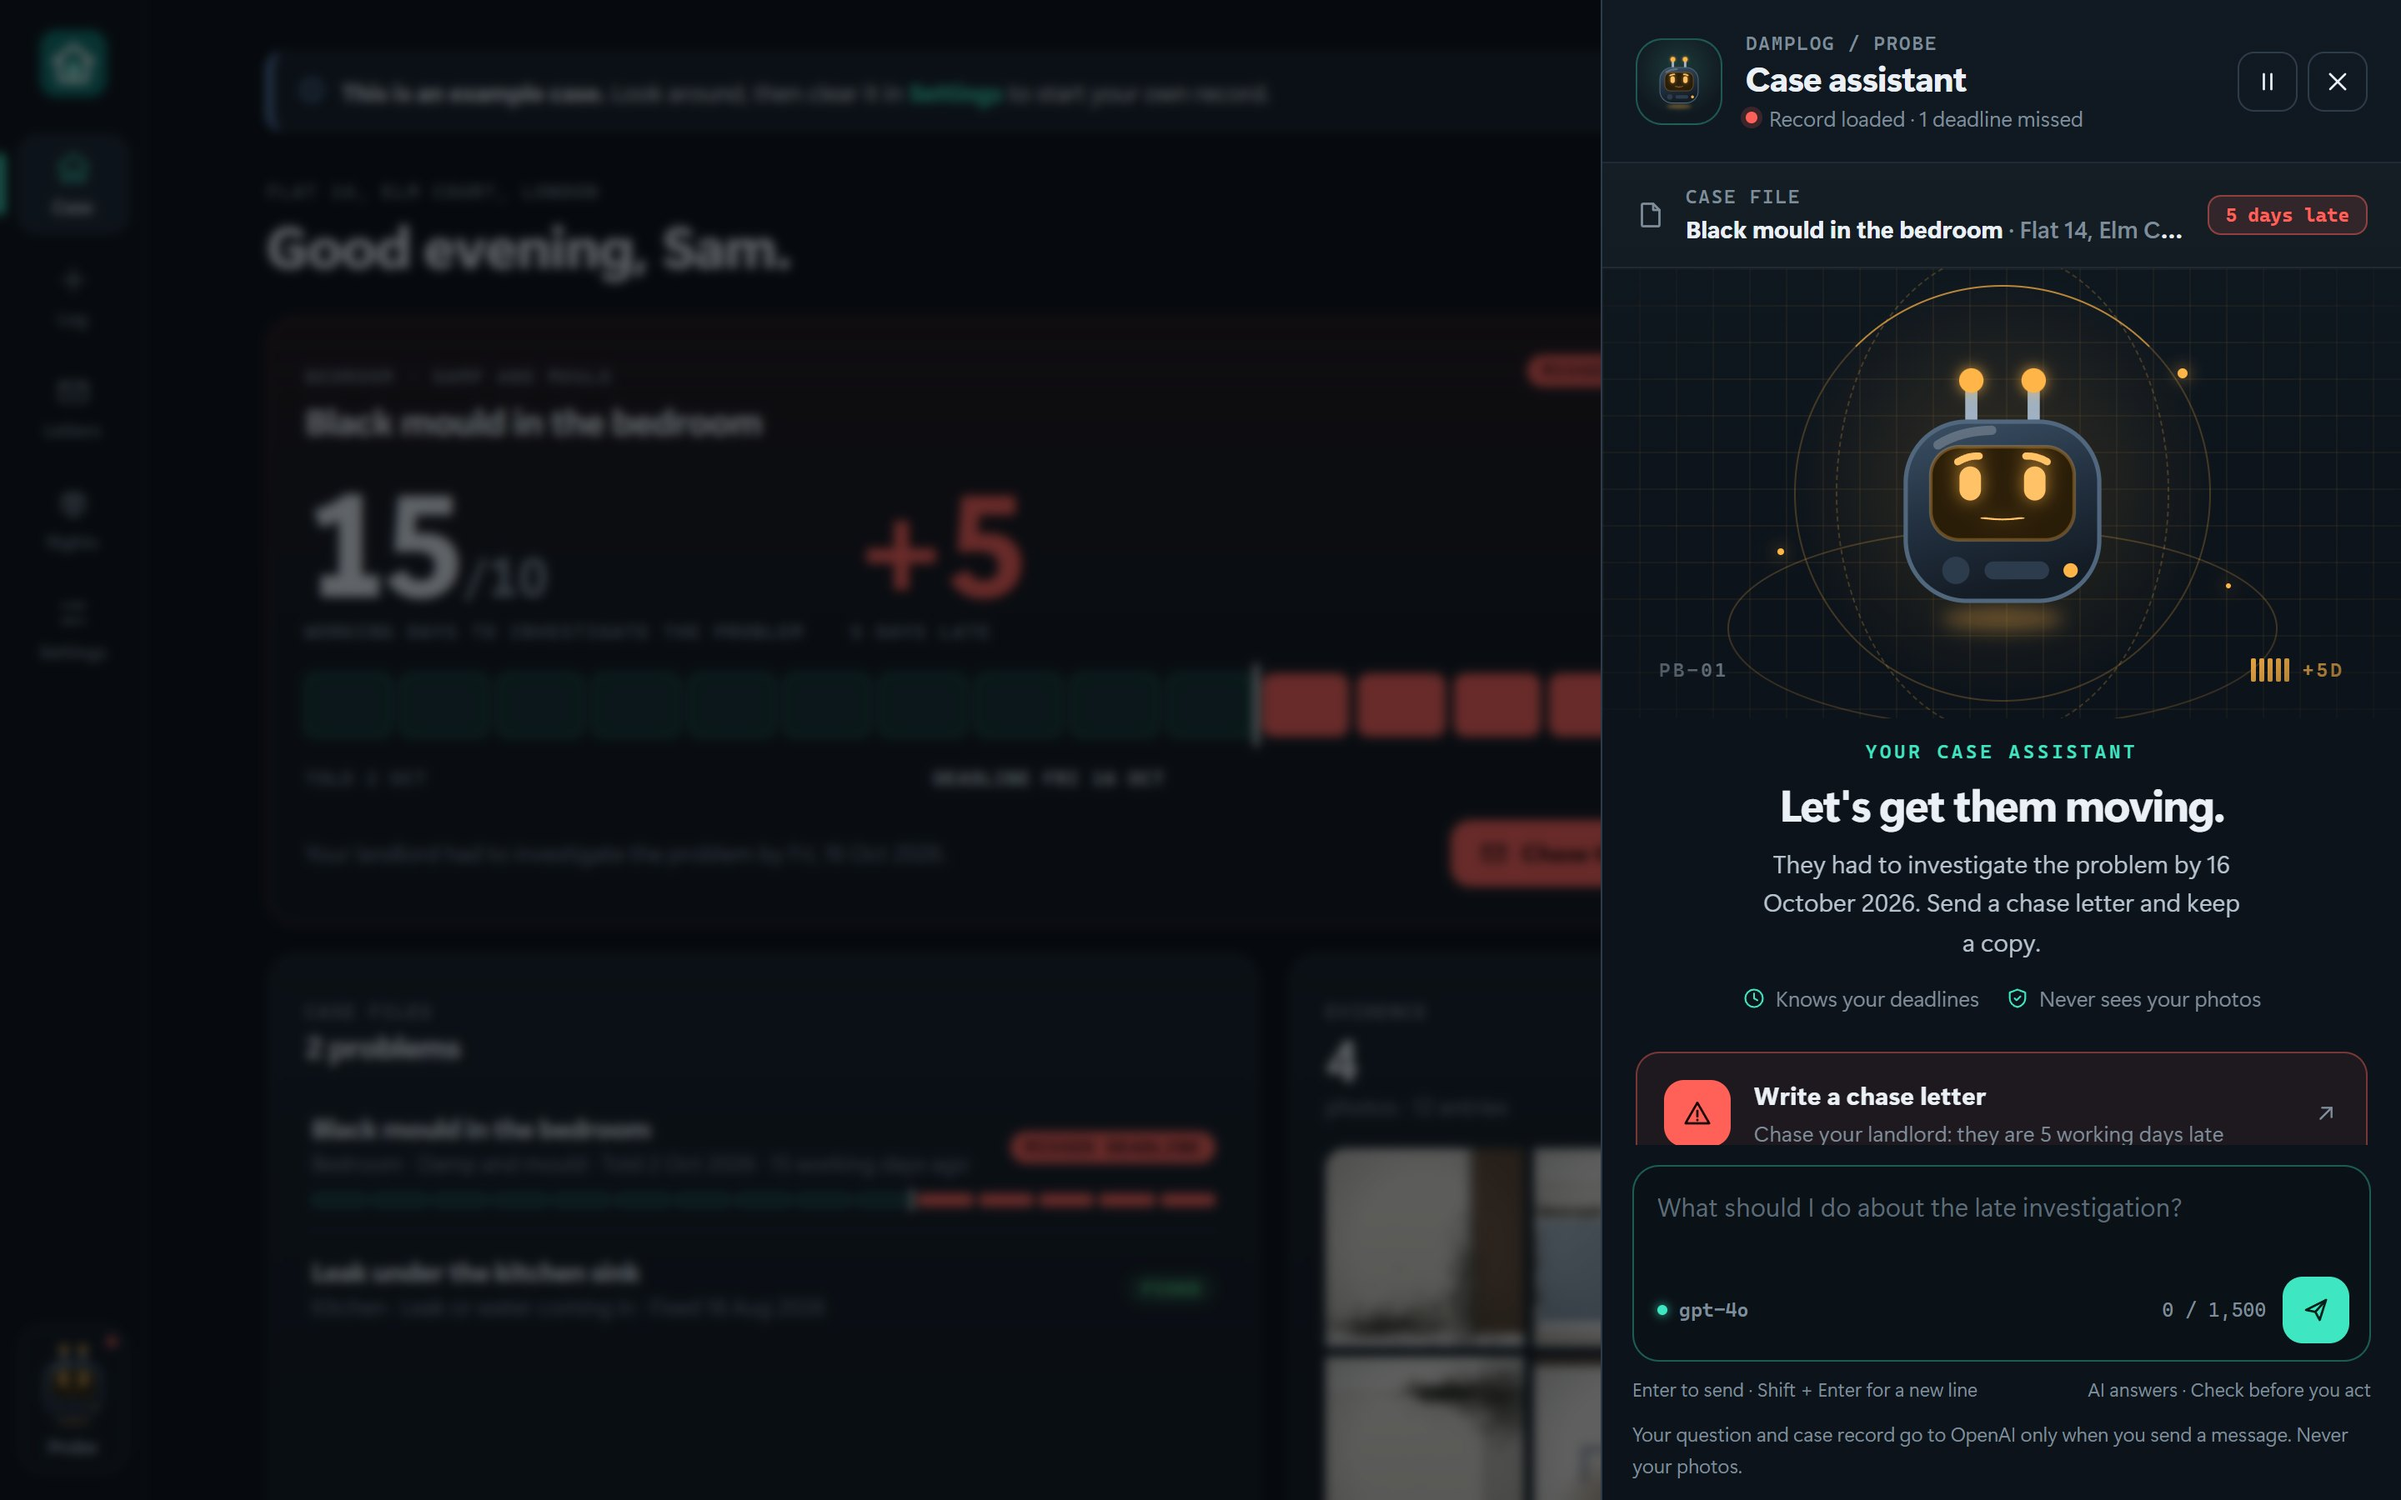
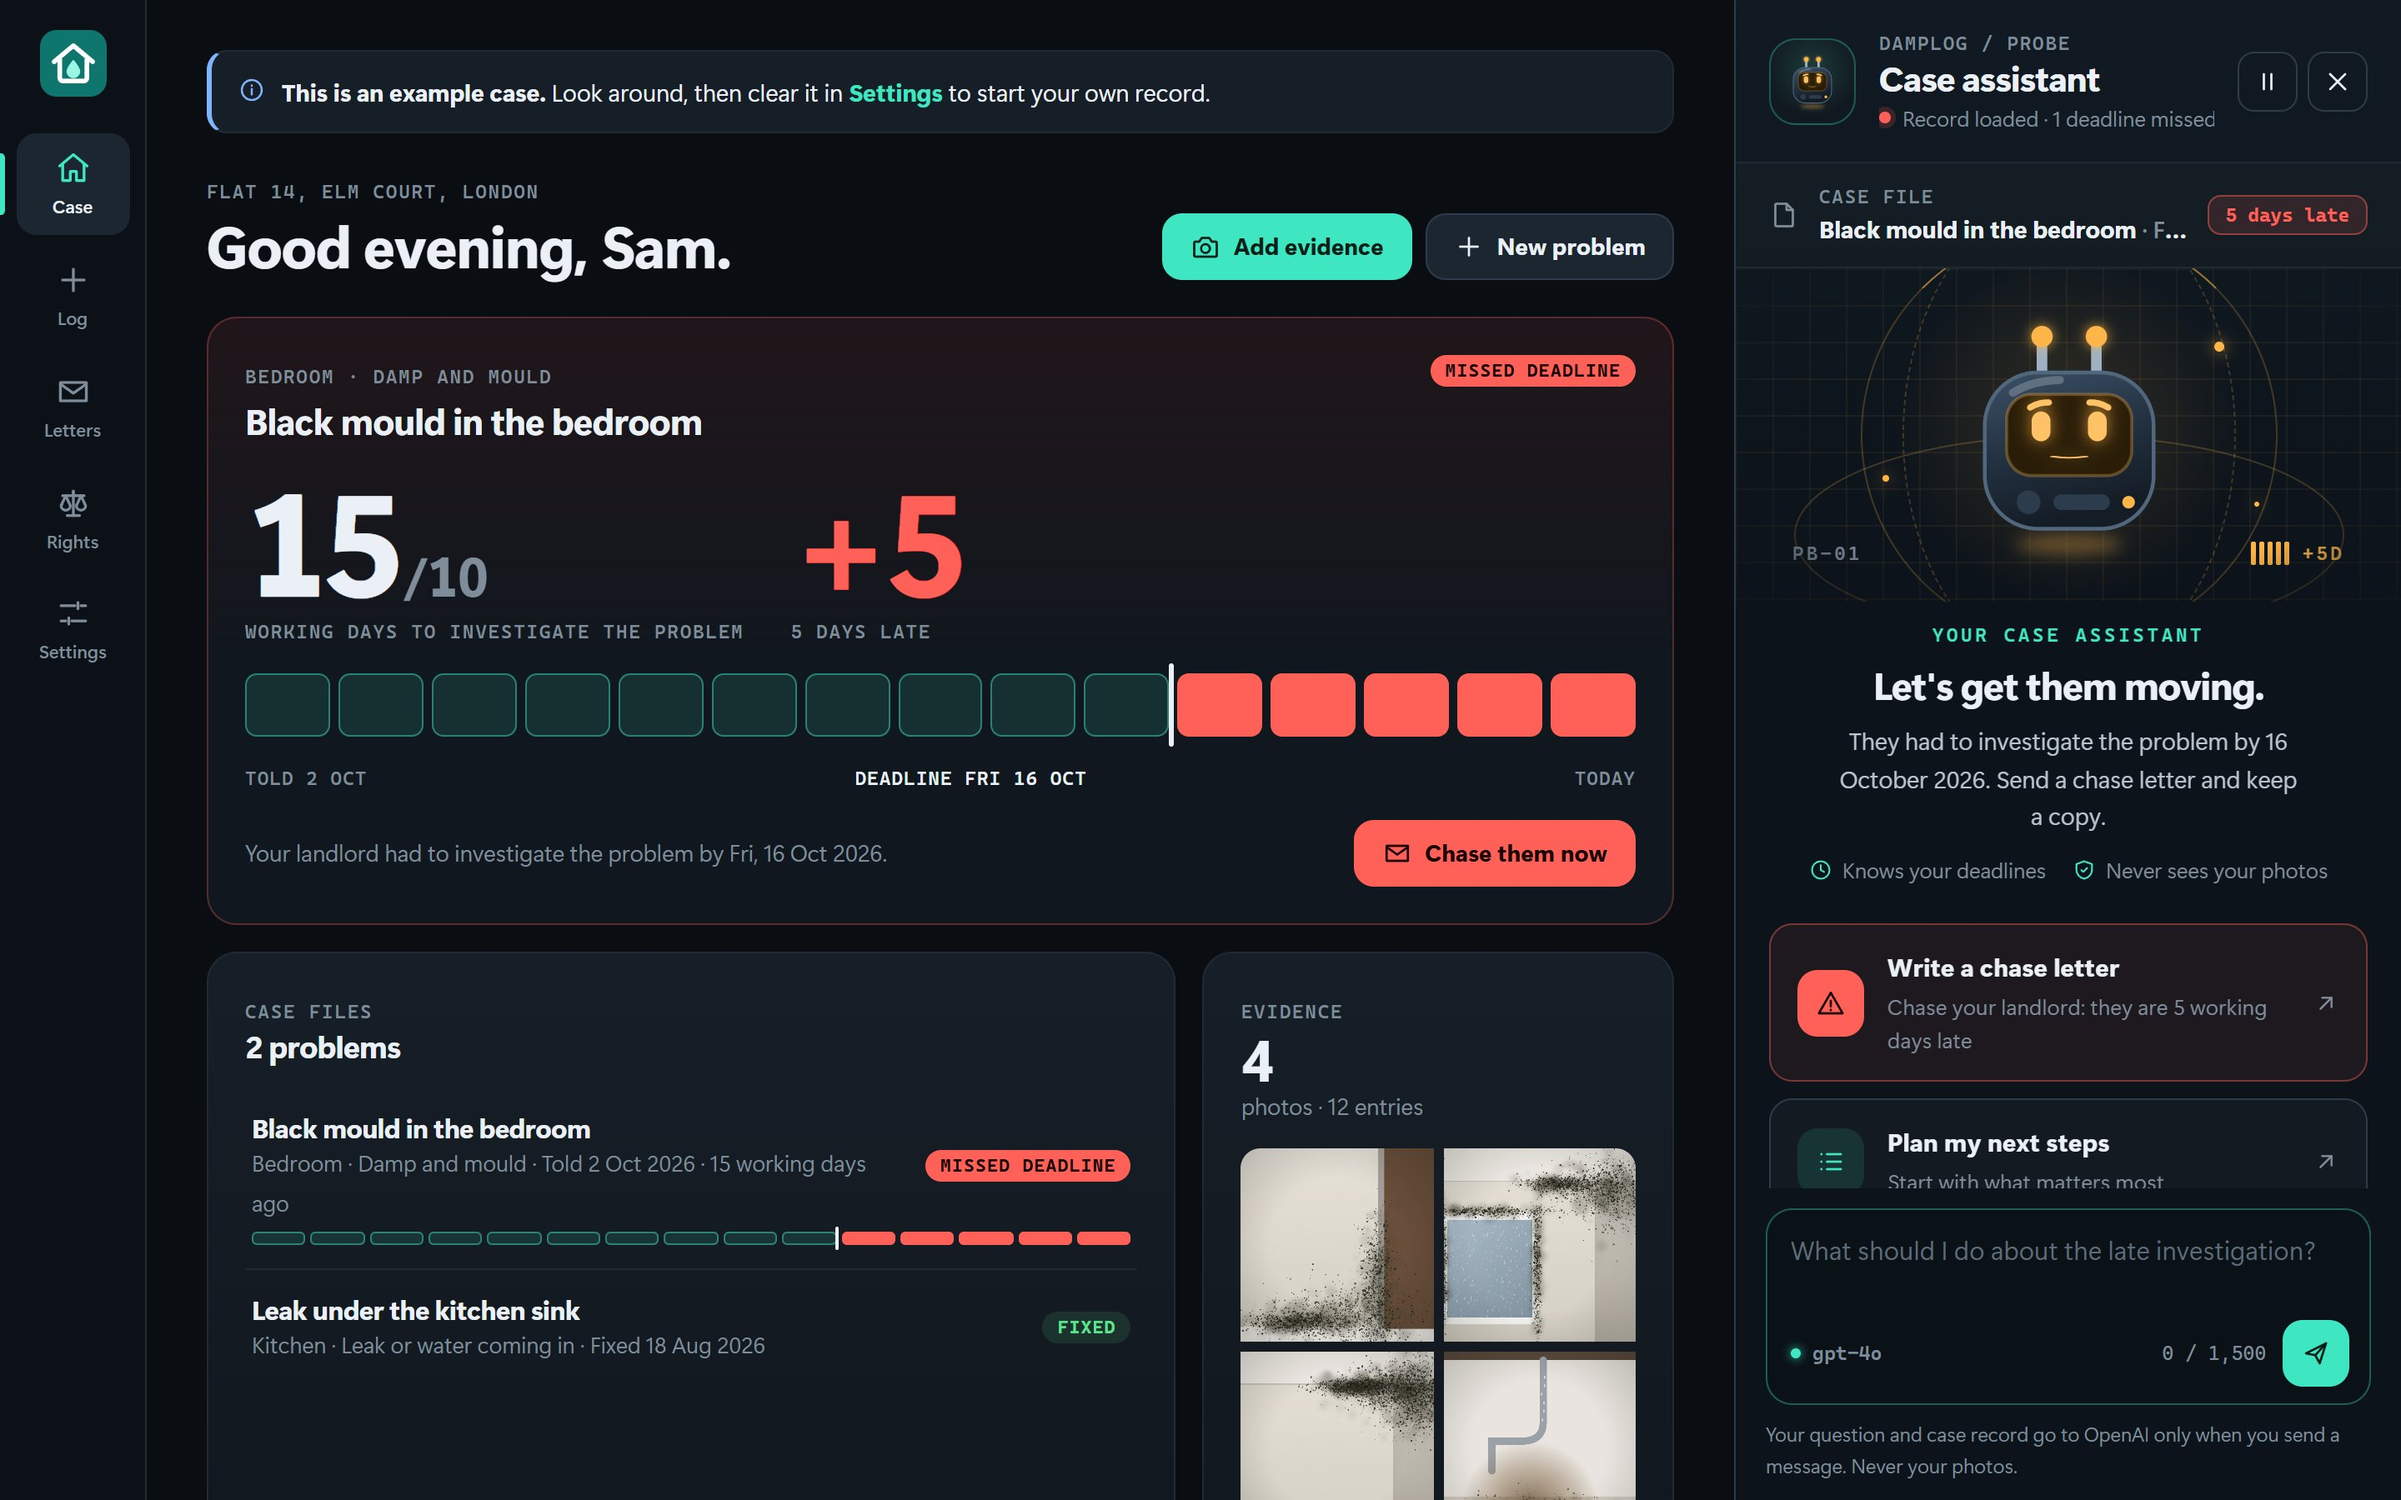
Dock Probe as a copilot column on wide screens

diff --git a/js/app.js b/js/app.js
@@ -371,7 +371,7 @@ function probeTile(t) {
     steps.length ? reading(steps[0]) : h('p', { class: 'muted' }, 'Nothing needs doing right now. Add photos as things change.'),
     steps.slice(1, 3).map((s) => reading(s, true)),
     h('button', { type: 'button', class: 'ask-pill', onclick: () => openProbe({ focus: true }) }, icon('sparkle', 18),
-      h('span', {}, aiConfig.provider ? 'Ask Probe about your case…' : 'Ask Probe · connect AI to chat')));
+      h('span', {}, aiConfig.provider ? 'Ask Probe about your case…' : 'Open Probe')));
 }
 
 function evidenceTile() {
@@ -408,16 +408,16 @@ function viewHome() {
         btn('Add evidence', { icon: 'camera', kind: 'primary', onclick: openQuickSheet }),
         btn('New problem', { icon: 'plus', href: '#/new' }))),
     lead
-      ? h('div', { class: 'bento' },
+      ? h('div', { class: `bento${probeDocked() ? ' docked' : ''}` },
         clockTile(lead, t, { cls: 'span-3' }),
-        probeTile(t),
+        !probeDocked() && probeTile(t),
         h('section', { class: 'tile span-2' },
           h('div', { class: 'card-head' }, h('div', {}, h('span', { class: 'kicker' }, 'Case files'), h('h2', {}, plural(list.length, 'problem')))),
           h('ul', { class: 'cases' }, list.map((s) => caseRow(s, t)))),
         evidenceTile())
-      : h('div', { class: 'bento' },
+      : h('div', { class: `bento${probeDocked() ? ' docked' : ''}` },
         h('section', { class: 'tile span-3' }, emptyState('droplet', 'No problems logged yet', 'Log the first problem with a photo. The clock starts when you tell your landlord.', btn('Log a new problem', { icon: 'plus', kind: 'primary', href: '#/new' }))),
-        probeTile(t)),
+        !probeDocked() && probeTile(t)),
     state.home.landlordType !== 'social' && notice('', 'info', h('strong', {}, 'Private renting: '),
       'Awaab\'s Law deadlines do not apply to private landlords yet, so DampLog tracks the steps without legal due dates. ',
       h('a', { href: '#/rights' }, 'What you can do')),
@@ -972,31 +972,68 @@ function viewReport(id) {
 
 /* ---------- Probe: the case assistant ---------- */
 
-// Probe lives in a panel that slides in over any screen. Its readings come from
-// the record with no AI; with an AI key it also answers questions, and each
+// On wide screens Probe is a copilot column docked on the right of every page;
+// on smaller screens it slides in over the page when asked. Its readings come
+// from the record with no AI; with an AI key it also answers questions, and each
 // answer can carry buttons that open the right screen.
+const probeDock = document.getElementById('probe-dock');
+const wide = window.matchMedia('(min-width: 1280px)');
 let probePanel = null;
 
-function openProbe({ focus = false, ask } = {}) {
-  if (!probePanel) {
-    probePanel = h('dialog', { class: 'probe-panel', 'aria-label': 'Probe, your case assistant', tabindex: '-1' });
-    probePanel.addEventListener('click', (e) => { if (e.target === probePanel) probePanel.close(); });
-    document.body.append(probePanel);
+// Probe docks once there is a record to read; before that it slides in like on phones.
+const canDock = () => wide.matches && (state.issues.length > 0 || core.homeReady(state.home));
+const probeDocked = () => canDock() && !chat.hidden;
+const probeHost = () => (probeDocked() ? probeDock : probePanel?.open ? probePanel : null);
+
+function layoutProbe() {
+  const docked = probeDocked();
+  document.body.classList.toggle('probe-docked', docked);
+  if (docked) {
+    if (probePanel?.open) probePanel.close();
+    // Keep what the tenant is typing: only repaint when they are not in the panel.
+    if (!probeDock.contains(document.activeElement)) paintProbe();
   }
-  paintProbe();
-  if (!probePanel.open) {
-    probePanel.showModal();
-    // Start focus on the panel itself, not on its first button.
-    probePanel.focus({ preventScroll: true });
+}
+
+function openProbe({ focus = false, ask } = {}) {
+  if (canDock()) {
+    const wasHidden = chat.hidden;
+    chat.hidden = false;
+    // The overview drops its Probe tile once Probe is docked beside it.
+    if (wasHidden) render();
+    layoutProbe();
+  } else {
+    if (!probePanel) {
+      probePanel = h('dialog', { class: 'probe-panel', 'aria-label': 'Probe, your case assistant', tabindex: '-1' });
+      probePanel.addEventListener('click', (e) => { if (e.target === probePanel) probePanel.close(); });
+      document.body.append(probePanel);
+    }
+    if (!probePanel.open) {
+      probePanel.showModal();
+      // Start focus on the panel itself, not on its first button.
+      probePanel.focus({ preventScroll: true });
+    }
+    paintProbe();
   }
   if (ask) askProbe(ask);
-  else if (focus) probePanel.querySelector('textarea:not([disabled])')?.focus();
+  else if (focus) probeHost()?.querySelector('textarea:not([disabled])')?.focus();
+}
+
+function closeProbe() {
+  if (probeDocked()) {
+    chat.hidden = true;
+    render();
+  } else {
+    probePanel?.close();
+  }
 }
 
 function goFromProbe(href) {
-  probePanel?.close();
+  if (!probeDocked()) probePanel?.close();
   location.hash = href;
 }
+
+wide.addEventListener('change', () => render());
 
 function fillReply(m) {
   if (!m.el) return;
@@ -1028,7 +1065,9 @@ const MAX_QUESTION = 1500;
 // action cards, and, once a conversation starts, the thread with Probe docked
 // in the header. The case bar and composer stay the same in both.
 function paintProbe() {
-  if (!probePanel) return;
+  const host = probeHost();
+  if (!host) return;
+  const docked = host === probeDock;
   const t = today();
   const list = summaries();
   const steps = nextSteps(state.home, list, t);
@@ -1037,8 +1076,8 @@ function paintProbe() {
   const lateDays = late && !late.dueAt ? core.workingDaysBetween(late.due, t.date) : 0;
   const mood = chat.busy ? 'thinking' : late ? 'alert' : 'idle';
   const talking = chat.messages.length > 0;
-  chat.face = probe(talking ? 40 : 172, mood);
-  probePanel.classList.toggle('calm', Boolean(chat.calm));
+  chat.face = probe(talking ? 40 : docked ? 150 : 172, mood);
+  host.classList.toggle('calm', Boolean(chat.calm));
 
   const status = chat.busy ? 'Taking a reading…'
     : !aiConfig.provider ? 'Readings only · connect AI to chat'
@@ -1052,7 +1091,7 @@ function paintProbe() {
     h('div', { class: 'pp-tools' },
       talking && !chat.busy && btn('', { icon: 'refresh', title: 'New chat', onclick: () => { chat.messages = []; paintProbe(); } }),
       btn('', { icon: chat.calm ? 'play' : 'pause', title: chat.calm ? 'Play animations' : 'Pause animations', onclick: () => { chat.calm = !chat.calm; paintProbe(); } }),
-      btn('', { icon: 'close', title: 'Close', onclick: () => probePanel.close() })));
+      btn('', { icon: 'close', title: docked ? 'Hide Probe' : 'Close', onclick: closeProbe })));
 
   const context = lead && h('div', { class: 'pp-context' },
     icon('file', 18),
@@ -1123,7 +1162,7 @@ function paintProbe() {
     }
   });
 
-  probePanel.replaceChildren(...[
+  host.replaceChildren(...[
     head,
     context,
     h('div', { class: 'panel-body' }, body),
@@ -1133,7 +1172,7 @@ function paintProbe() {
         ? `Your question and case record go to ${ai.PROVIDERS[aiConfig.provider].name} only when you send a message. Never your photos.`
         : 'Probe\'s readings are worked out on this device. Nothing is sent anywhere.')),
   ].filter(Boolean));
-  const scroller = probePanel.querySelector('.panel-body');
+  const scroller = host.querySelector('.panel-body');
   if (talking) requestAnimationFrame(() => { scroller.scrollTop = scroller.scrollHeight; });
 }
 
@@ -1417,6 +1456,7 @@ function render() {
   // The overview's heading is a sentence about the case, so it keeps its plain title.
   const heading = name === 'home' ? null : main.querySelector('h1');
   document.title = `${heading?.textContent ?? TITLES[name]} · DampLog`;
+  layoutProbe();
 }
 
 function afterNavigate() {

diff --git a/css/styles.css b/css/styles.css
@@ -513,13 +513,28 @@ button.thumb:hover { transform: rotate(0) scale(1.04); }
 .probe-panel:focus { outline: none; }
 .probe-panel::backdrop { background: rgb(4 7 10 / 60%); -webkit-backdrop-filter: blur(3px); backdrop-filter: blur(3px); }
 @keyframes panel-in { from { transform: translateX(48px); opacity: 0; } }
-.probe-panel.calm *, .probe-panel.calm *::before, .probe-panel.calm *::after { animation-play-state: paused !important; }
+.probe-panel.calm *, .probe-panel.calm *::before, .probe-panel.calm *::after, .probe-dock.calm *, .probe-dock.calm *::before, .probe-dock.calm *::after { animation-play-state: paused !important; }
+
+/* Wide screens: Probe docked as a copilot column on the right of every page */
+.probe-dock { display: none; }
+@media (min-width: 1280px) {
+  body.probe-docked .probe-dock { position: fixed; top: 0; right: 0; bottom: 0; z-index: 18; width: 400px; display: flex; flex-direction: column; background: linear-gradient(180deg, #111a23, #0c131a 40%); border-left: 1px solid var(--line-strong); color: var(--ink); }
+  body.probe-docked .stage { margin-right: 400px; }
+  body.probe-docked .rail-probe { display: none; }
+  .probe-dock .pp-stage { height: 200px; }
+  .probe-dock .pp-hints { display: none; }
+  .probe-dock .pp-intro p { font-size: 0.9rem; }
+  .probe-dock .pp-intro h3 { font-size: 1.45rem; }
+}
+.bento.docked { grid-template-columns: repeat(3, minmax(0, 1fr)); }
+@media (max-width: 1099px) { .bento.docked { grid-template-columns: repeat(2, minmax(0, 1fr)); } }
 
 .pp-head { display: flex; align-items: center; gap: 14px; padding: 18px 20px 16px; border-bottom: 1px solid var(--line); }
 .pp-avatar { display: grid; place-items: center; width: 52px; height: 52px; border-radius: 16px; background: radial-gradient(circle at 50% 35%, #1d3b39, #101820 70%); border: 1px solid rgb(62 230 193 / 30%); flex: none; }
-.pp-title { display: flex; flex-direction: column; gap: 1px; min-width: 0; }
+.pp-title { display: flex; flex-direction: column; gap: 1px; min-width: 0; flex: 1; }
 .pp-title h2 { font-size: 1.3rem; }
-.pp-status { display: inline-flex; align-items: center; gap: 7px; font-size: 0.8rem; color: var(--muted); }
+.pp-status { display: flex; align-items: center; gap: 7px; font-size: 0.8rem; color: var(--muted); white-space: nowrap; overflow: hidden; text-overflow: ellipsis; }
+.pp-status i { flex: none; }
 .pp-status i { width: 7px; height: 7px; border-radius: 50%; background: var(--accent); box-shadow: 0 0 0 3px rgb(62 230 193 / 18%); animation: pb-tip 1.8s ease-in-out infinite; }
 .pp-status.bad i { background: var(--bad); box-shadow: 0 0 0 3px rgb(255 97 89 / 18%); }
 .pp-tools { margin-left: auto; display: flex; gap: 6px; }

diff --git a/index.html b/index.html
@@ -23,6 +23,7 @@
     <header class="mobile-top" id="mobile-top"></header>
     <main id="main" tabindex="-1"><p class="loading">Loading…</p></main>
   </div>
+  <aside class="probe-dock" id="probe-dock" aria-label="Probe, your case assistant"></aside>
   <nav class="dock" id="dock" aria-label="Main"></nav>
   <div id="toast" class="toasts" role="status" aria-live="polite"></div>
   <noscript><p class="noscript">DampLog needs JavaScript turned on.</p></noscript>
